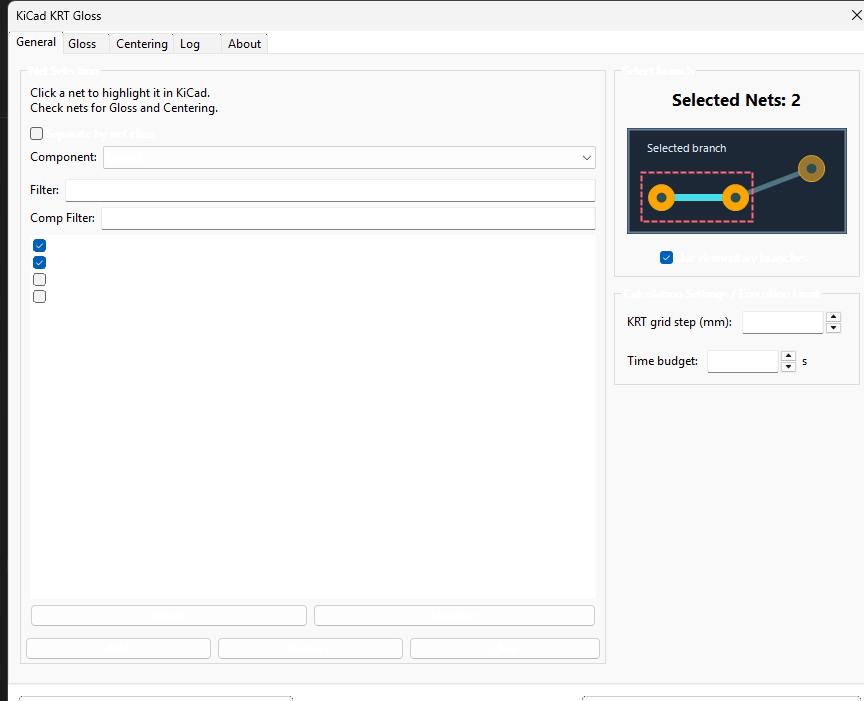
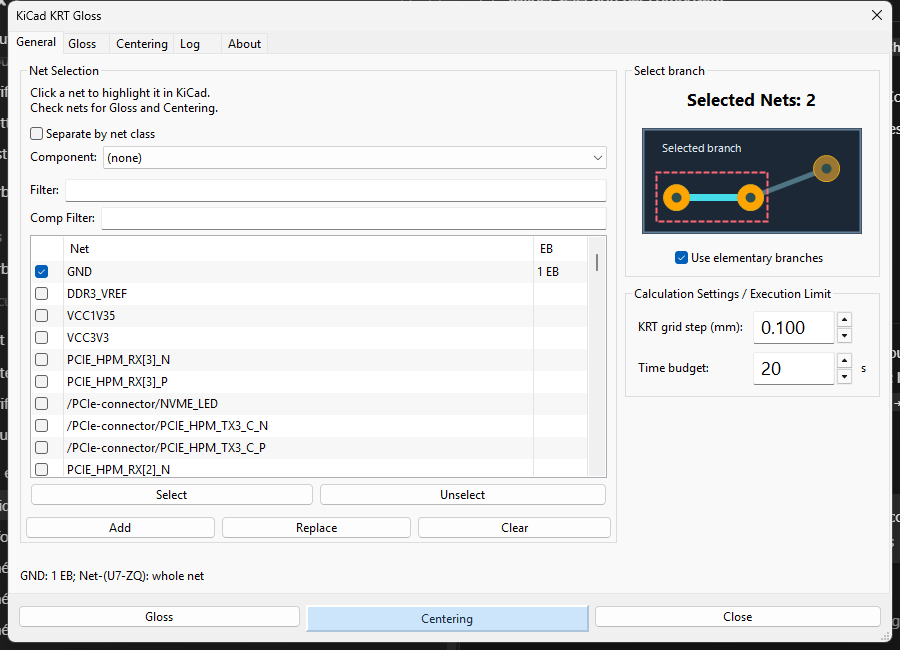
Restore correct dialog illustrations and compact README layout

diff --git a/README.md b/README.md
@@ -2,7 +2,7 @@
 
 KiCad KRGloss reduces and simplifies one or more already routed tracks, most
 often after autorouting or manual routing. It is built on KiCad Routing Tools
-by Dr DrAndyHaas, which provides obstacle, clearance and connectivity checks.
+by DrAndyHaas, which provides obstacle, clearance and connectivity checks.
 
 ![KiCad PCB Editor: the TrackGloss Changes overlay on User.1 shows the former dotted detour and the final shortened track.](docs/assets/kicad-user1-reductions.png)
 
@@ -19,45 +19,24 @@ KiCad KRGloss**.
 
 ## Choose the scope
 
-![General tab — full dialog with net list and elementary-branch scope.](docs/assets/dialog-general.png)
-
-1. Check the nets to process.
-2. Click a row to highlight its remembered scope in KiCad.
-3. Use **Add** or **Replace** to import the current KiCad selection; **Clear**
-   empties the list.
-
-With **Use elementary branches** enabled, a selected track imports its complete
-branch up to pads, free ends or junctions. A row showing `n EB` contains
-remembered branches; an empty EB cell means the whole net. Disable the option
-to always process complete nets.
+| General | Choose nets or branches |
+| --- | --- |
+| ![General: visible net names, 1 EB scope and action buttons.](docs/assets/dialog-general.png) | **Check** a net to include it; **click** a row to highlight its scope.<br><br>**Add / Replace** imports the KiCad selection. **Clear** empties the list.<br><br>With **Use elementary branches** enabled, importing a selected track remembers its full branch, bounded by pads, free ends or junctions. **n EB** means partial branch scope; a blank EB cell means the whole net. Without remembered branches, checking a net selects the whole net. |
 
 If nothing is selected in KiCad, the dialog opens with no checked net. The
 action buttons remain disabled until at least one net is checked.
 
 ## Gloss
 
-![Gloss tab — full dialog with corridor, movable-via and repeat-pass options.](docs/assets/dialog-gloss.png)
-
-- **Stay in corridor** prevents a movement from crossing or jumping over an
-  obstacle.
-- **Movable vias** allows eligible unlocked vias to move.
-- **Repeat Gloss until stable** requests additional passes, up to the displayed
-  G4 limit.
-
-Click **Gloss**. A valid route may remain unchanged when no safe improvement
-exists.
+| Gloss | Shorten and simplify |
+| --- | --- |
+| ![Gloss: corridor and via illustrations, settings and action buttons.](docs/assets/dialog-gloss.png) | **Stay in corridor** prevents crossing or jumping over an obstacle.<br><br>**Movable vias** allows eligible unlocked vias to move.<br><br>**Repeat Gloss until stable** adds passes up to the G4 limit.<br><br>Click **Gloss**. No change is normal when no safe improvement exists. |
 
 ## Centering and Proximity max
 
-![Centering tab — full dialog with the Proximity max control.](docs/assets/dialog-centering.png)
-
-To set **Proximity max** from the board:
-
-1. In KiCad, select **exactly two pads**.
-2. Open the **Centering** tab.
-3. Click **Refresh**.
-4. Check the centre-to-centre distance displayed in **Proximity max**.
-5. Check the target net and click **Centering**.
+| Centering | Set Proxi using two pads |
+| --- | --- |
+| ![Centering: Proximity max 2.54 mm, illustration and Refresh button.](docs/assets/dialog-centering.png) | **1.** In KiCad, select **exactly two pads**.<br><br>**2.** Open the **Centering** tab and click **Refresh**.<br><br>**3.** Check the **centre-to-centre distance** shown in **Proximity max** (0–5 mm).<br><br>**4.** In General, check the target net or import its branches, then click **Centering**. |
 
 The two-pad selection is used only to measure Proximity max. The checked net
 or remembered elementary branches define which track is processed.
@@ -69,18 +48,10 @@ after Centering.
 
 ## Review the result
 
-### Log tab
-
-![Log tab — full dialog with execution output and Copy Log / Clear Log controls.](docs/assets/dialog-log.png)
-
 The **Log** tab records the options, net names and result. The plugin also
 creates or reuses **TrackGloss Changes** on a free User layer: old copper is
 dashed and new copper is solid. This layer is a visual aid, not a replacement
 for KiCad's visual inspection and DRC.
-
-### About tab
-
-![About tab — full dialog with version and author information.](docs/assets/dialog-about.png)
 
 Gloss and Centering modify existing routing only. Locked or protected copper,
 arcs, differential pairs and constrained tracks remain protected.
